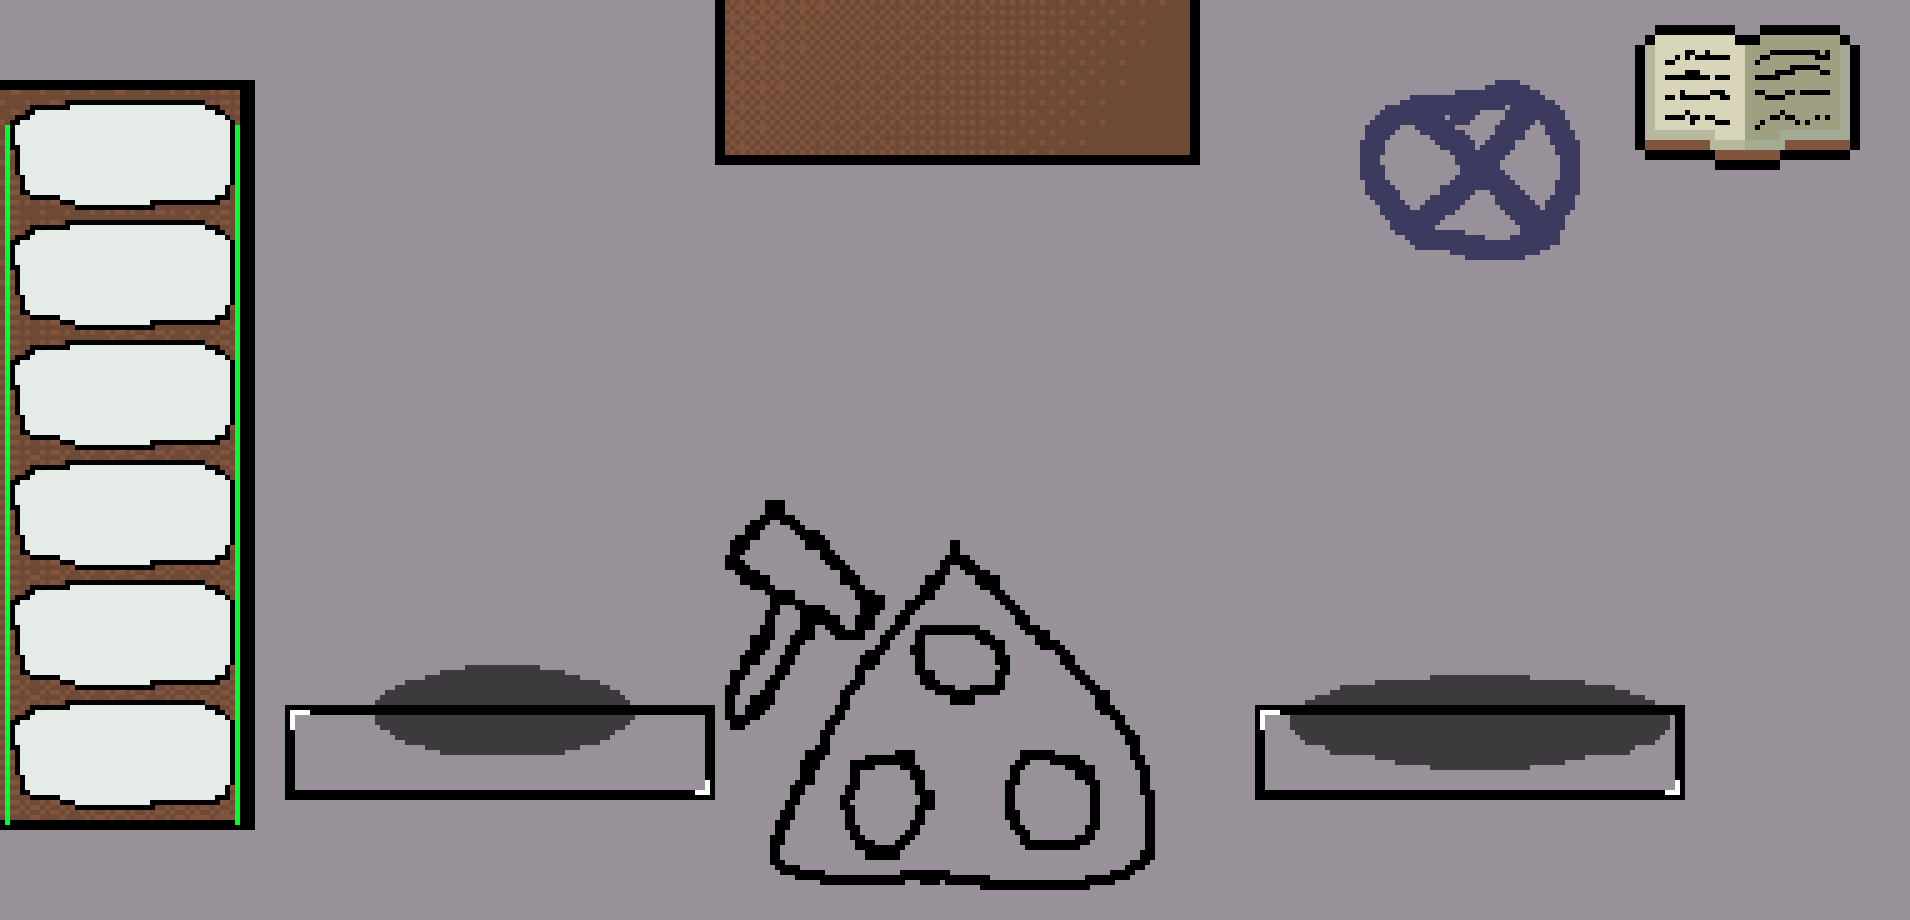
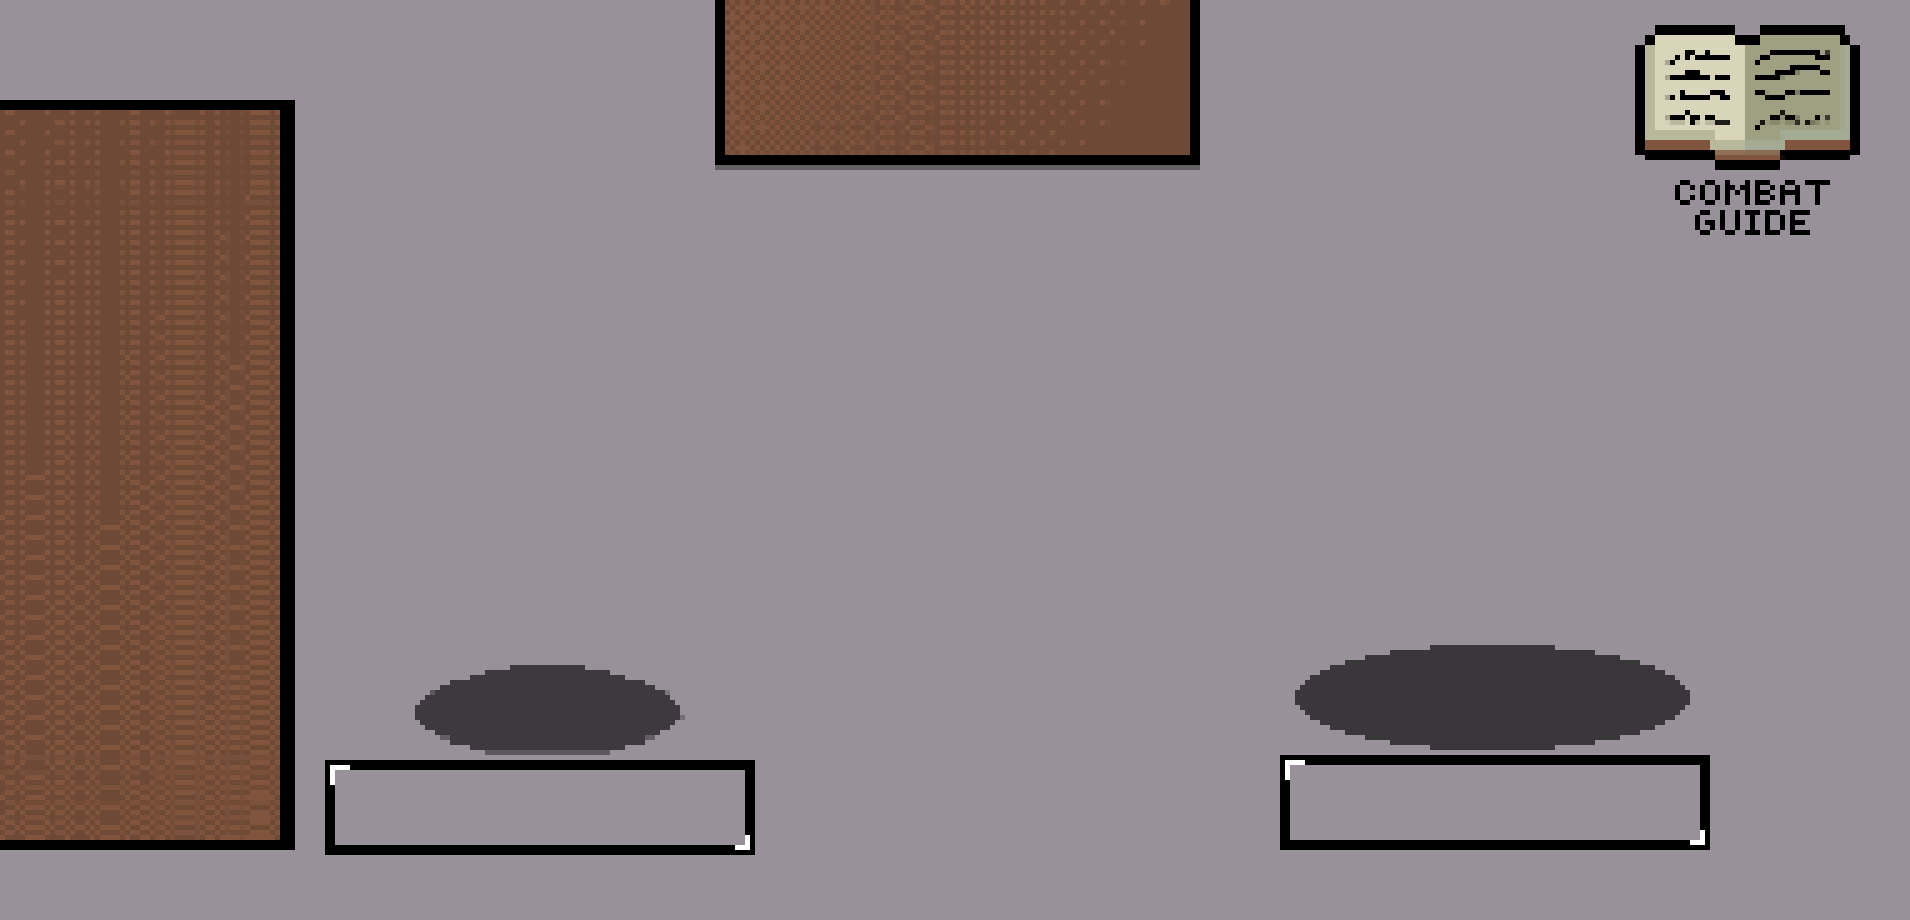
mums

diff --git a/Javascript/Coregameplay/combat.js b/Javascript/Coregameplay/combat.js
@@ -57,12 +57,12 @@ let runeUsesThisTurn = 0;
 
 // Positionskonfiguration för runor
 const runeSlots = [
-    { x: 0, y: 102 },
-    { x: 0, y: 227 },
-    { x: 0, y: 350 },
-    { x: 0, y: 477 },
-    { x: 0, y: 600 },
-    { x: 0, y: 723 }
+    { x: 0, y: 125 },
+    { x: 0, y: 240 },
+    { x: 0, y: 375 },
+    { x: 0, y: 500 },
+    { x: 0, y: 625 },
+    { x: 0, y: 750 }
 ];
 
 // Spelarens grundskada
@@ -136,7 +136,25 @@ export const PlayerActions = [
     }
 ];
 
-// Ladda bilder för alla runor
+// 5 av block och attack
+const extraRunes = [];
+
+const attackRune = PlayerActions.find(r => r.name === "Viking strike");
+const blockRune = PlayerActions.find(r => r.name === "Shield up");
+
+for (let i = 0; i < 5; i++) {
+    extraRunes.push({ ...attackRune, id: `attack_${i}`, selected: false });
+    extraRunes.push({ ...blockRune, id: `block_${i}`, selected: false });
+}
+
+export const AllRunes = [...PlayerActions, ...extraRunes];
+
+AllRunes.forEach(r => {
+    const img = new Image();
+    img.src = r.img;
+    r.imageObj = img;
+});
+
 PlayerActions.forEach(r => {
     const img = new Image();
     img.src = r.img;
@@ -194,12 +212,6 @@ let images = {};
     playerCombatImg.src = "./character_bilder/meatball_nack.png";
     player.combatImg = images["./character_bilder/meatball_nack.png"];
 
-    PlayerActions.forEach(r => {
-        r.imageObj = images[r.img];
-    });
-
-    startMap(); // Starta kartan
-    startGame(); // Starta spelet
 })();
 
 // Rita spelaren på canvas när bilden är laddad
@@ -215,7 +227,7 @@ function startRuneSelection() {
     actionStoneSlots = [null, null, null]; 
     selectedRunes = [];
 
-    discardedRunes = shuffleArray([...PlayerActions]);
+    discardedRunes = shuffleArray([...AllRunes]);
 
     hoveredRuneIndex = null;
     hoveredSelectedRuneIndex = null;
@@ -346,21 +358,22 @@ function drawSelectedRunes() {
     }
 }
 
-// Rita hela striden
+// Rita hela combat 
 export function drawCombat(goat) {
     if (!goat) return;
     ctx.clearRect(0, 0, canvas.width, canvas.height);
 
     if (inCombat && combatImg.complete) ctx.drawImage(combatImg, 0, 0, canvas.width, canvas.height);
 
+    //spelaren ritas
     if (player.combatImg && player.combatImg.complete) {
         const width = 250;
         const height = 300;
-        const x = 350; 
-        const y = 420;
+        const x = 400; 
+        const y = 450;
         ctx.drawImage(player.combatImg, x, y, width, height);
     }
-
+    // ritar geten
     if (goat.image && goat.image.complete) ctx.drawImage(goat.image, 1400, 330, 400, 400);
 
     ctx.fillStyle = "white";
@@ -369,8 +382,8 @@ export function drawCombat(goat) {
     ctx.fillText(`You have defeated: ${slays}/4`, 760, canvas.height - 860);
     ctx.fillText(`Combat against: ${goat.name}`, 750, canvas.height - 920);
 
-    drawHealthBar(player.health, player.maxHealth, 285, 725, 440, 95);
-    drawHealthBar(goat.health, goat.maxHealth, 1260, 725, 440, 95);
+    drawHealthBar(player.health, player.maxHealth, 310, 775, 440, 110);
+    drawHealthBar(goat.health, goat.maxHealth, 1280, 775, 440, 110);
 
     drawStatus(400, 250, player);
     drawStatus(canvas.width - 570, 280, goat);
@@ -433,7 +446,6 @@ function drawHealthBar(current, max, x, y, width, height) {
 
 function startCombat(goat) {
     if (!goat) return;
-    
     if (goat.health <= 0) return;
 
     inCombat = true;
@@ -446,29 +458,36 @@ function startCombat(goat) {
     discardedRunes = [];
     runeUsesThisTurn = 0;
 
-    currentGoat.maxHealth = currentGoat.maxHealth || 100;
-    currentGoat.health = currentGoat.maxHealth;
+    // Nollställ getens stats helt inför ny strid
+    currentGoat.baseMaxHealth = 100;   // Alla getter har 200 HP
+    currentGoat.maxHealth = 200;
+    currentGoat.health = 100;
+    currentGoat.baseDamage = 20;       // Standard damage
+    currentGoat.damage = 20;
+    currentGoat.tempDamage = currentGoat.damage;
+    currentGoat.block = 0;
+    currentGoat.blockRemaining = 0;
+    currentGoat.burnTurns = 0;
+    currentGoat.burnDamage = 0;
+    currentGoat.vulnerable = false;
 
+    // Slumpa första fiendehandlingar
     currentGoat.nextMove = [
         EnemyActions[Math.floor(Math.random() * EnemyActions.length)],
         EnemyActions[Math.floor(Math.random() * EnemyActions.length)]
     ];
 
-    currentGoat.burnTurns = 0;
-    currentGoat.burnDamage = 0;
-    currentGoat.vulnerable = false;
-    currentGoat.damage = 10;
-    currentGoat.tempDamage = currentGoat.damage;
-    currentGoat.block = 0;
-    currentGoat.blockRemaining = 0;
-
+    //  Spelaren börjar utan block
     player.block = 0;
 
-    console.log(`An evil ${goat.name} has appeared!`);
+    //Kollar vilken equipment spelaren har
+    player.combatImg = player.imgIdle;
 
+    console.log(`An evil ${goat.name} has appeared!`);
     startRuneSelection();
     drawCombat(currentGoat);
 }
+
 
 export function playerAction(actionIndex, goat) {
     if (!playerTurn || !inCombat || !goat) return;
@@ -478,20 +497,13 @@ export function playerAction(actionIndex, goat) {
 
     currentTurnRunes.splice(actionIndex, 1);
 
-    //  startar ljud för varje rune
-    if (action.name === "Viking strike") {
-        soundmanager.playAxe();
-    } else if (action.name === "Shield up") {
-        soundmanager.playBlock();
-    } else if (action.name === "Horn of Mjöd") {
-        soundmanager.playHealing();
-    } else if (action.name === "Wildfire") {
-        soundmanager.playBurn();
-    } else if (action.name === "Loki's insult" || action.name === "Exposed flesh") {
-        soundmanager.playRune();
-    } else if (action.name === "Tyr's gamble") {
-        soundmanager.playAnvil();
-    }
+    // Starta ljud för varje rune
+    if (action.name === "Viking strike") soundmanager.playAxe();
+    else if (action.name === "Shield up") soundmanager.playBlock();
+    else if (action.name === "Horn of Mjöd") soundmanager.playHealing();
+    else if (action.name === "Wildfire") soundmanager.playBurn();
+    else if (action.name === "Loki's insult" || action.name === "Exposed flesh") soundmanager.playRune();
+    else if (action.name === "Tyr's gamble") soundmanager.playAnvil();
 
     if (action.apply) action.apply();
 
@@ -520,7 +532,6 @@ export function playerAction(actionIndex, goat) {
 
     runeUsesThisTurn++; 
 
-    
     if (goat.health <= 0) { 
         endCombat(true, goat); 
         return; 
@@ -532,10 +543,8 @@ export function playerAction(actionIndex, goat) {
 
         if (!inCombat) return;
 
-        goat.vulnerable = false;
+        // Förbered fienden för nästa tur
         goat.tempDamage = goat.damage;
-        goat.block = 0;
-        goat.blockRemaining = 0;
 
         setTimeout(() => enemyTurn(goat), 1000);
     }
@@ -574,6 +583,7 @@ function endCombat(victory, goat) {
 function enemyTurn(goat) {
     if (!inCombat || !goat || !player) return;
 
+    // Brännskada först
     if (goat.burnTurns > 0) {
         goat.health -= goat.burnDamage;
         goat.burnTurns--;
@@ -587,37 +597,32 @@ function enemyTurn(goat) {
 
     goat.tempDamage = goat.damage;
 
-    let actions = [
-        EnemyActions[Math.floor(Math.random() * EnemyActions.length)],
-        EnemyActions[Math.floor(Math.random() * EnemyActions.length)]
-    ];
+    // Slumpa handlingar om inga finns
+    let actions = goat.nextMove || [];
+    if (actions.length === 0) {
+        actions = [
+            EnemyActions[Math.floor(Math.random() * EnemyActions.length)],
+            EnemyActions[Math.floor(Math.random() * EnemyActions.length)]
+        ];
+    }
 
-    goat.nextMove = actions;
+    // Se till att minst en Attack finns
+    if (!actions.some(a => a.name === "Attack")) {
+        actions[0] = EnemyActions.find(a => a.name === "Attack");
+    }
 
-    let totalBlock = 0;
-    actions.forEach(action => {
-        if (action.name === "Defensive stance") {
-            totalBlock += 10; 
-        }
-    });
-    goat.block = totalBlock;
-    goat.blockRemaining = totalBlock;
-
+    // Utför handlingarna
     actions.forEach(action => {
         if (action.name === "Attack") {
             let damage = goat.tempDamage || goat.damage || 10;
-
             const blockedByPlayer = Math.min(damage, player.block || 0);
-            damage -= blockedByPlayer;
-            player.block -= blockedByPlayer;
+            const actualDamage = Math.max(damage - blockedByPlayer, 0);
 
-            const blockedByGoat = Math.min(damage, goat.blockRemaining || 0);
-            damage -= blockedByGoat;
-            goat.blockRemaining -= blockedByGoat;
+            player.health -= actualDamage;
+            player.block = Math.max((player.block || 0) - damage, 0);
 
-            player.health -= damage;
-            console.log(`${goat.name} attacked for ${damage} damage (blocked ${blockedByPlayer} by player, ${blockedByGoat} by enemy)`);
-        }
+            console.log(`${goat.name} attacked for ${actualDamage} damage (blocked ${blockedByPlayer})`);
+        } 
         else if (action.name === "Goat buff") {
             if (Math.random() < 0.5) {
                 goat.damage += 5;
@@ -625,9 +630,14 @@ function enemyTurn(goat) {
             } else {
                 console.log(`${goat.name} tried to buff but failed.`);
             }
+        } 
+        else if (action.name === "Defensive stance") {
+            goat.blockRemaining = (goat.blockRemaining || 0) + 10; 
+            console.log(`${goat.name} prepares to block 10 damage! Total block: ${goat.blockRemaining}`);
         }
     });
 
+    // Kontrollera om spelaren dog
     if (player.health <= 0) {
         player.health = player.maxHealth;
         inCombat = false;
@@ -638,11 +648,20 @@ function enemyTurn(goat) {
         return;
     }
 
+    // Slumpa nya handlingar för nästa tur
+    goat.nextMove = [
+        EnemyActions[Math.floor(Math.random() * EnemyActions.length)],
+        EnemyActions[Math.floor(Math.random() * EnemyActions.length)]
+    ];
+
+    // Ge kontrollen tillbaka till spelaren
     playerTurn = true;
     currentTurn++;
     runeUsesThisTurn = 0;
     startRuneSelection();
 }
+
+
 
 
 
@@ -734,7 +753,7 @@ canvas.addEventListener("click", (event) => {
                 drawCombat(currentGoat);
 
                 if (!actionStoneSlots.some(slot => slot !== null)) {
-                    // Återställ selected-flag för alla runor
+                    // Återställ selected för alla runor
                     discardedRunes.forEach(r => r.selected = false);
                     startRuneSelection();
                 }
